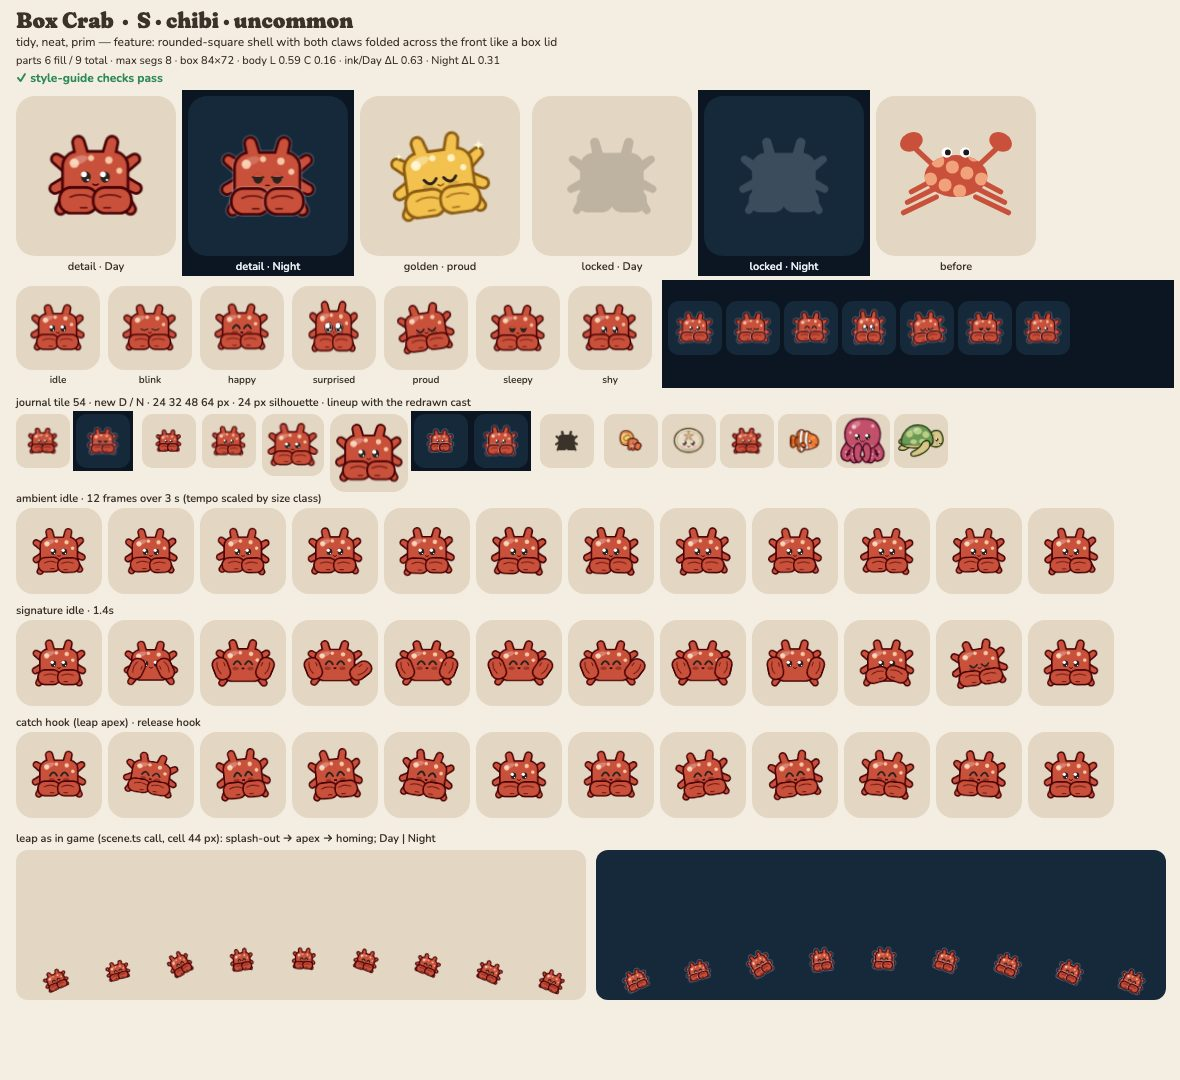
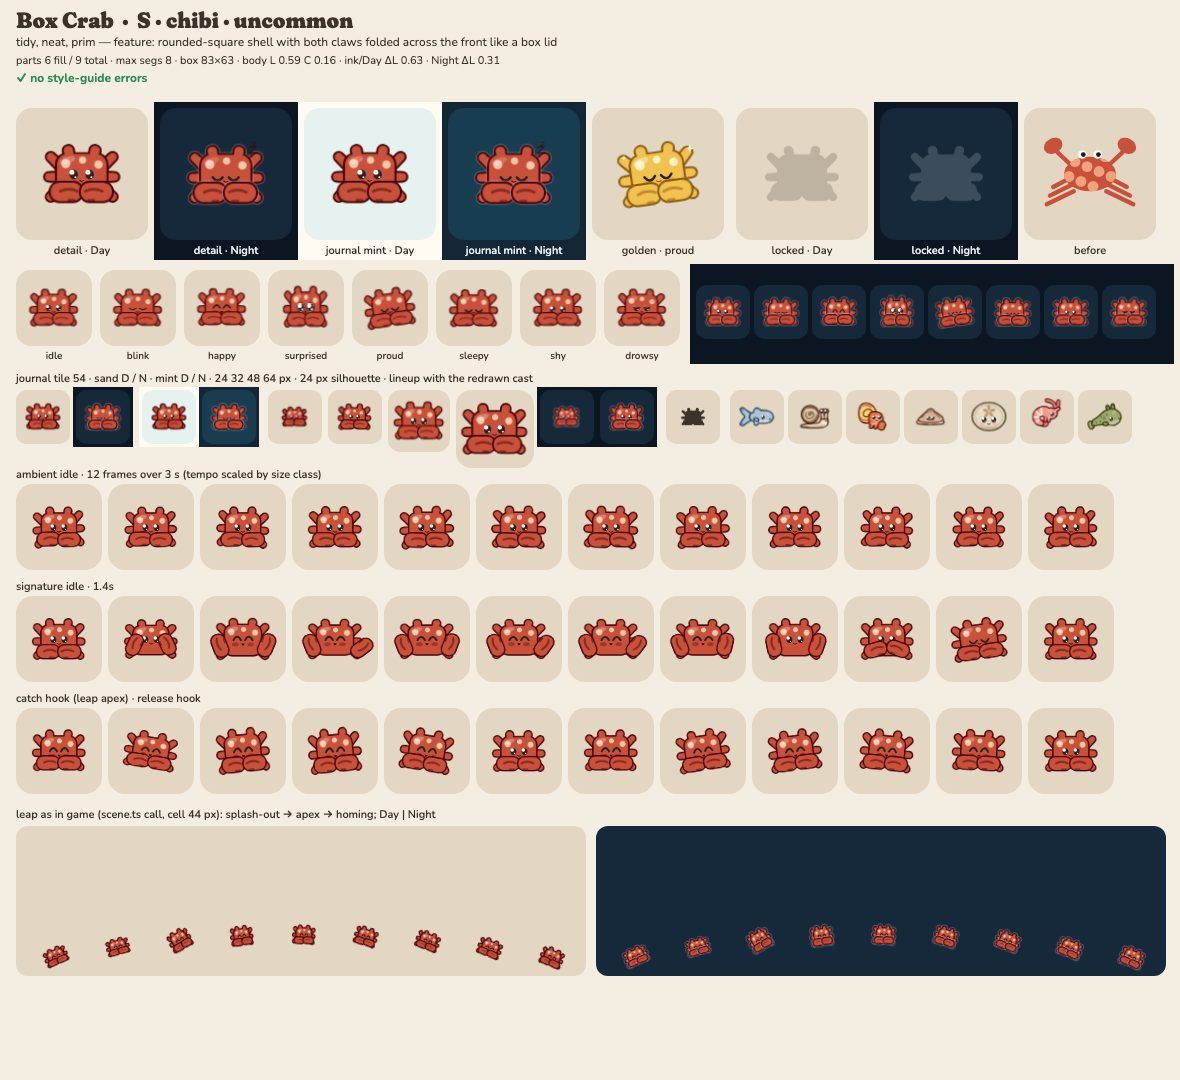
art: boxcrab B fixes — rounded nubs, knob stalks, three big spots (CRITIQUE-1)
render: box crab, round 2. No more virus spikes: the legs are three rounded nubs a side (r 5/4.6,
no taper), the eye stalks are short round knobs, three larger peach spots instead of four small;
the claw lid is a touch wider than the shell (it reads as a lid), claw detail lines at 3 units
(R2L), eye at the floor (11). Proportions picked by a small IoU search against the full cast.
Lint ✓. Closest IoU boxcrab/sanddollar 0.75, boxcrab/seasparkle 0.68 (chibi limit 0.70).

diff --git a/src/render/art/species/boxcrab.ts b/src/render/art/species/boxcrab.ts
@@ -7,14 +7,14 @@
  */
 import { capsule, circle, defineArt, ellipse, join, rrect, xform } from '../kit.ts';
 
-const shell = rrect(-30, -26, 60, 50, 13);
+const shell = rrect(-28, -26, 56, 48, 12);
 const legsL = join(
-  capsule(-26, -12, 4.8, -37, -20, 3.6),
-  capsule(-26, 2, 4.8, -38.4, 8, 3.6),
-  capsule(-24, 14, 4.8, -33, 28, 3.6),
+  capsule(-24, -12, 5, -35, -23, 4.6),
+  capsule(-25, 0, 5, -37, 0, 4.6),
+  capsule(-24, 12, 5, -35, 23, 4.6),
 );
 const mirror = (d: string) => xform(d, { sx: -1 });
-const clawL = rrect(-33, 8, 34, 22, 10);
+const clawL = rrect(-35, 6, 36, 21, 10);
 
 export default defineArt({
   id: 'boxcrab',
@@ -37,9 +37,9 @@ export default defineArt({
       parts: [
         { d: shell, role: 'body' },
         // two little eye-stalk bumps on the shell's top edge (box crabs peek over their lid)
-        { d: join(capsule(-13, -24, 5, -16, -36, 4.4), capsule(13, -24, 5, 16, -36, 4.4)), role: 'body' },
+        { d: join(capsule(-13, -20, 4.6, -15, -30, 5.4), capsule(13, -20, 4.6, 15, -30, 5.4)), role: 'body' },
         {
-          d: join(circle(-20, -16, 4.4), circle(-4, -21, 3), circle(13, -19, 3.6), circle(23, -9, 3)),
+          d: join(circle(-18, -15, 5.2), circle(1, -19, 4.2), circle(19, -14, 4.8)),
           role: 'accent',
           kind: 'pattern',
         },
@@ -50,7 +50,7 @@ export default defineArt({
       pivot: [-30, 18],
       parts: [
         { d: clawL, role: 'body' },
-        { d: 'M-24 16C-18 13 -10 13 -4 16M-14 26L-8 26', role: 'ink', kind: 'line', w: 1.6, alpha: 0.7 },
+        { d: 'M-24 16C-18 13 -10 13 -4 16M-14 26L-8 26', role: 'ink', kind: 'line', w: 3, alpha: 0.5 },
       ],
     },
     {
@@ -58,7 +58,7 @@ export default defineArt({
       pivot: [30, 18],
       parts: [
         { d: mirror(clawL), role: 'body' },
-        { d: 'M24 16C18 13 10 13 4 16M14 26L8 26', role: 'ink', kind: 'line', w: 1.6, alpha: 0.7 },
+        { d: 'M24 16C18 13 10 13 4 16M14 26L8 26', role: 'ink', kind: 'line', w: 3, alpha: 0.5 },
       ],
     },
   ],
@@ -68,7 +68,7 @@ export default defineArt({
       [-9, -3],
       [9, -3],
     ],
-    eye: 10.6,
+    eye: 11,
     zone: [-30, -30, 60, 46],
     mouth: { at: [0, 3.5], w: 5, shape: 'smile' },
     front: true,
